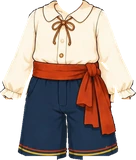
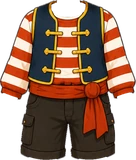
해적 옷에 남아 그림 추가 — 남녀 공용이 됐다 (#640)
* 해적 옷에 남아 그림 추가 — 남녀 공용이 됐다

사파리 옷에 이어 두 번째로 그림이 성별로 갈리는 아이템.
  남아: 줄무늬 셔츠 + 남색 조끼 + 빨간 띠 + 검정 반바지
  여아: 블라우스 + 남색 반바지

떼어내기 — 이번 원화가 제일 깔끔하게 풀렸다.
'입고 있는 전신 그림'인데 알파 채널에 옷만 담겨 있었다(RGB 는 몸까지 다 있고
알파는 옷 모양). 그래서 두 채널을 나눠 썼다:
  · RGB → 검정 배경을 지워 몸 실루엣을 얻고, 머리끝·발끝으로 배율만 잡는다 (0.59329)
  · 알파 → 그 변환을 그대로 적용하면 옷이 제자리에 온다
색으로 옷을 골라낼 필요가 없다. 탑재 상자 (358,397)-(670,763).

가로를 1.04~1.08배 늘려도 봤지만 어깨 노출이 1,103 → 943 로 조금 줄 뿐이고
원화 비례가 흐트러져서 배율 그대로(1.00) 뒀다 — 원화 자체가 이 몸에 맞춰 그려져 있다.

상점 카드 그림도 성별로 갈린다(thumbGirl).

확인
- vite build 통과

Claude-Session: https://claude.ai/code/session_018maNuYqDfFyRSe9uKpZhPR

* 저장소 루트에 잘못 들어간 작업용 이미지 2개 삭제

작업 환경 초기화로 원화가 몇 번 날아가서 임시로 루트에 복사해 뒀던 것이
앞 커밋에 딸려 들어갔다. 원화는 art-src/pirate-boy-worn-src.webp 에 제대로 있다.

Claude-Session: https://claude.ai/code/session_018maNuYqDfFyRSe9uKpZhPR

---------

diff --git a/src/data/avatarEquipment.js b/src/data/avatarEquipment.js
@@ -194,7 +194,13 @@ export const AVATAR_CATALOG = [
   /* 해적 옷 — 이 원화도 '옷만 오려 낸 그림'이라 상체를 눈으로 맞췄다(하늘 나들이 옷과 같은 방식).
      긴소매라 소맷부리가 손목에 닿는 배율을 골랐다 — 0.72는 팔뚝이 남고 0.76부터는 손을 덮는다.
      배율 0.74 · 깃 위끝 y372(기본 반팔티 깃과 같은 자리) → 탑재 상자 (350,372)-(674,754). */
-  { id: "top_pirate",     slot: "top",   label: "해적 옷",     emoji: "⚓", price: 240, rarity: "epic", theme: "pirate", forGender: "girl", coversBottom: true, img: "assets/avatar/top/pirate-outfit-girl.webp", thumb: "assets/avatar/thumb/top_pirate.webp" },
+  /* [2026-08-21] 남아 원화가 들어와 남녀 공용이 됐다 (사파리 옷에 이어 두 번째).
+       남아: 줄무늬 셔츠 + 남색 조끼 + 빨간 띠 + 검정 반바지 · 여아: 블라우스 + 남색 반바지
+     남아 원화는 '입고 있는 전신 그림'인데 **알파 채널에 옷만 담겨 있었다** —
+     RGB 는 몸까지 다 있고 알파는 옷 모양이다. 그래서 배경을 지워 몸 실루엣으로 배율만 잡고
+     (머리끝·발끝 → 배율 0.59329), 같은 변환을 알파에 담긴 옷에 그대로 적용했다.
+     색으로 옷을 골라낼 필요가 없어서 제일 깔끔하다. 탑재 상자 (358,397)-(670,763). */
+  { id: "top_pirate",     slot: "top",   label: "해적 옷",     emoji: "⚓", price: 240, rarity: "epic", theme: "pirate", coversBottom: true, img: "assets/avatar/top/pirate-outfit-boy.webp", imgGirl: "assets/avatar/top/pirate-outfit-girl.webp", thumb: "assets/avatar/thumb/top_pirate.webp", thumbGirl: "assets/avatar/thumb/top_pirate-girl.webp" },
   { id: "top_space",      slot: "top",   label: "우주복",       emoji: "🚀", price: 250, rarity: "epic", theme: "space",  forGender: "girl", coversBottom: true, img: "assets/avatar/top/space-suit-girl.webp",    thumb: "assets/avatar/thumb/top_space.webp" },
 
 ];
